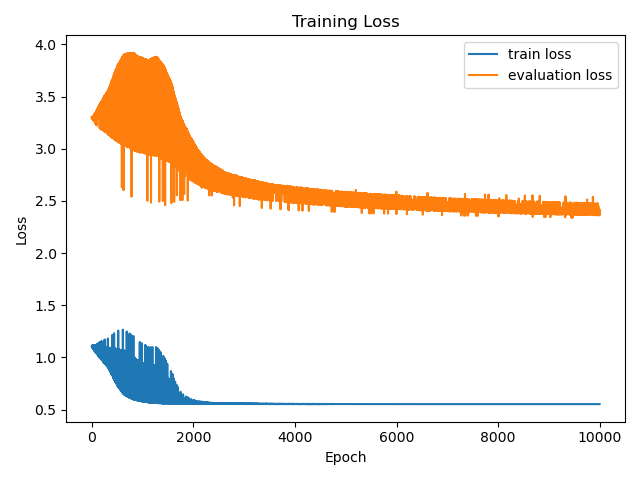
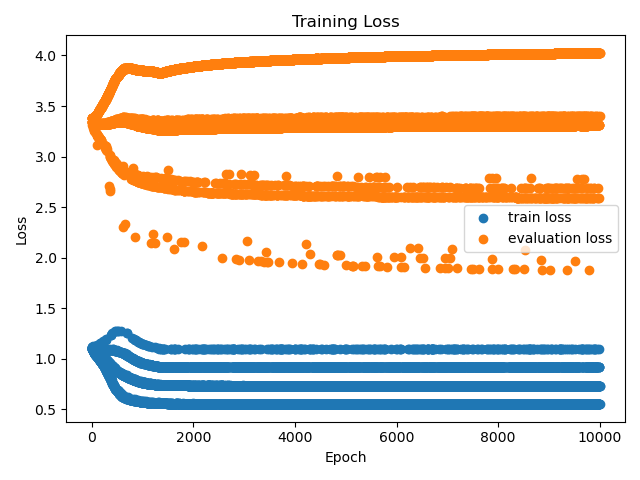
only check loss results once per epocj

diff --git a/cell.py b/cell.py
@@ -291,7 +291,7 @@ for i in range(epoch):
         loss = loss_fn(targets,label)
         loss.backward()
         optimizer.step()
-        train_losses.append(loss.item())
+    train_losses.append(loss.item())
         # print('train loss',loss.item())
     # test
     models.eval()
@@ -301,7 +301,7 @@ for i in range(epoch):
             data, label = data.cuda(), label.cuda()
         targets = models(data.float())
         loss = loss_fn(targets,label)
-        eval_losses.append(loss.item()*data.size(0))
+    eval_losses.append(loss.item()*data.size(0))
         # print('test loss',loss.item())
 
 # plot the losses
@@ -309,8 +309,8 @@ fig1, ax1 = plt.subplots()
 ax1.set_title('Training Loss')
 ax1.set_xlabel('Epoch')
 ax1.set_ylabel('Loss')
-ax1.plot(np.arange(len(train_losses)),train_losses, label='train loss')
-ax1.plot(np.arange(len(eval_losses)),eval_losses, label='evaluation loss')
+ax1.scatter(np.arange(len(train_losses)),train_losses, label='train loss')
+ax1.scatter(np.arange(len(eval_losses)),eval_losses, label='evaluation loss')
 ax1.legend()
 plt.tight_layout()
 plt.savefig('disc_hists.png')
